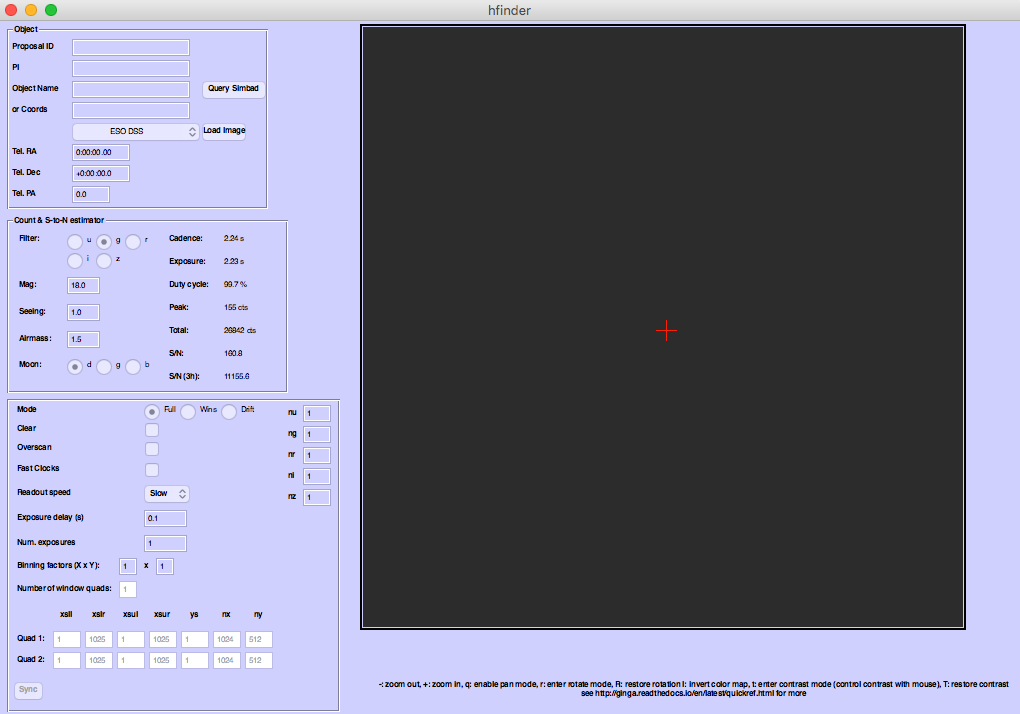
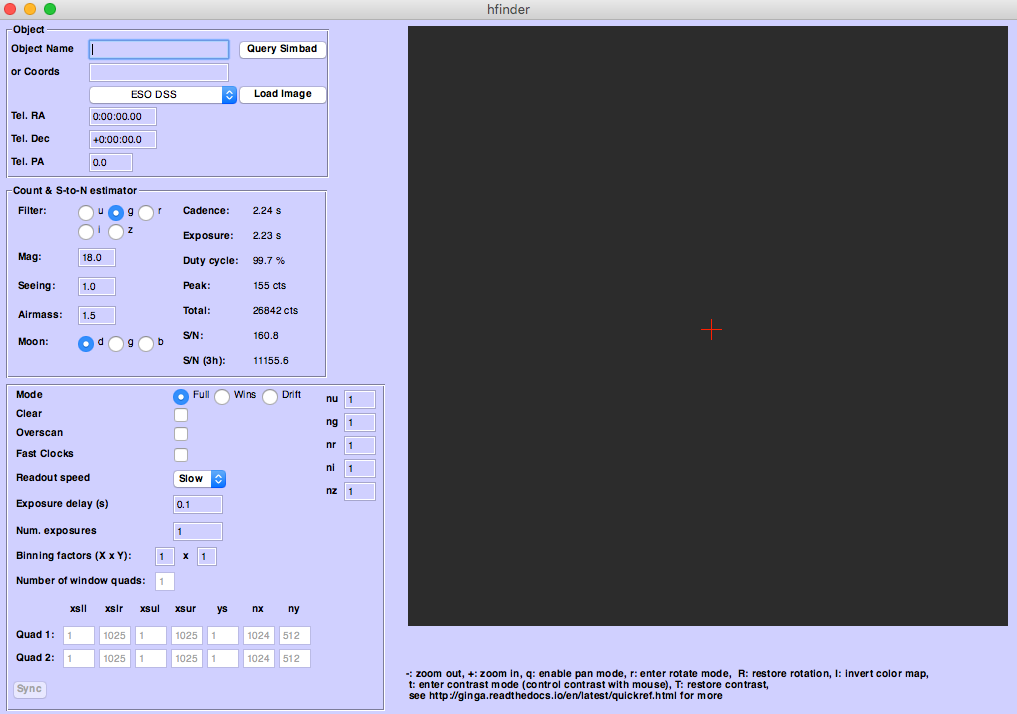
update docs to reflect lack of PI info

Changed region(s): [[0.0, 0.0, 1.0, 1.0]]

diff --git a/docs/usage.rst b/docs/usage.rst
@@ -22,7 +22,7 @@ Before proceeding any further, make sure the correct telescope is selected using
 Target Setup
 ------------
 
-Enter your proposal ID, PI Name and Object Name in the appropriate boxes. You can query
+Enter your Object Name in the appropriate box. You can query
 `SIMBAD <http://simbad.u-strasbg.fr/simbad/>`_ using your entered target name by
 pressing the :guilabel:`Query Simbad` button. If SIMBAD lookup fails, you can enter
 your target coordinates by hand.
